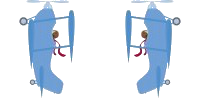
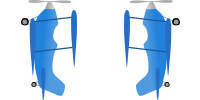
Started a main title screen, and started a better vector drawing of the biplane

Changed region(s): [[0.6, 0.0, 0.93, 1.0], [0.09, 0.0, 0.39, 1.0]]

diff --git a/js/menu.js b/js/menu.js
@@ -1,0 +1,87 @@
+
+
+var menuState = {
+  preload: function() {
+    myGame = this;
+    this.count=0;
+    /* use the whole window up */
+    game.scale.scaleMode = Phaser.ScaleManager.SHOW_ALL;
+    /* if the full screen button is pressed, use this scale mode: */
+    game.scale.fullScreenScaleMode = Phaser.ScaleManager.SHOW_ALL;
+    game.load.image("ribbon", "img/ribbon700w.png");
+    game.load.image("biplane", "img/biplane550w.png");
+    game.load.image("pilot", "img/aviator125w.png");
+    game.load.spritesheet("buttons", "img/buttons103w47h.png", 103,47);
+
+  },
+  create: function() {
+    game.physics.startSystem(Phaser.Physics.ARCADE);
+    game.scale.onSizeChange.add(this.onSizeChange, this);
+    game.stage.backgroundColor = '#94e1f3'; /* sky blue */
+
+    //game.add.tileSprite(0,0, 1280, 720, 'background');
+    game.world.setBounds(-5,-5, game.width+10,game.height+10);
+
+    this.ribbon = game.add.sprite(game.width/2, game.height/2, 'ribbon');
+    this.ribbon.anchor.set(0.5, 0.5); this.ribbon.scale.set(0.85,0.85);
+
+    this.biplane = game.add.sprite(game.width/2, game.height/2, 'biplane');
+    this.biplane.anchor.set(0.5, 0.5); //this.scale.set(0.5,0.5);
+
+    startButton=game.add.button(game.width/2, game.height*0.85, 'buttons', function(){
+      this.closeMenu(GAME);
+    }, this,4,4,4 );
+    startButton.anchor.set(0.5,0.5);
+
+
+  },
+  update: function() {
+    this.count++;
+    /* Fade in from Black at start of Game */
+    if (this.count==1) game.camera.flash(0x000000, 600, true);
+    if (this.count==150) {
+
+    }
+
+    if (this.gameMode==GAME) {
+      if (this.cursors.up.isDown) {
+        this.player.plane.accelerate(ACCELERATE_SPEED);
+      }
+      else if (this.cursors.down.isDown) {
+        this.player.plane.decelerate(ACCELERATE_SPEED);
+      }
+      if (this.cursors.left.isDown) {
+        this.player.plane.rotate(-TURN_SPEED);
+      }
+      else if (this.cursors.right.isDown) {
+        this.player.plane.rotate(+TURN_SPEED);
+      }
+      if (this.spacebar.isDown) {
+        this.fireButtonClick();
+      }
+    }
+  },
+  closeMenu: function( toGameMode ) { /* Fade to black and end this game screen */
+    game.camera.fade(0x000000, 300);  /* fade to black */
+    game.time.events.add(350, function() {
+      game.stage.backgroundColor = '#000000';
+      if (toGameMode == GAME) {
+        game.state.start('play');
+      //}else if (toGameMode == TITLE_SCREEN) {
+      //  game.state.start('play');
+      }
+    }, this);
+  },
+  onSizeChange: function() {
+    if (this.touchControl) {
+      this.touchControl.onSizeChange();
+    }
+
+  },
+  fullScreenButtonPress: function() {
+    if (game.scale.isFullScreen)
+      game.scale.stopFullScreen();
+    else
+      game.scale.startFullScreen(false);
+  },
+};

diff --git a/js/enemy.js b/js/enemy.js
@@ -96,7 +96,7 @@ AI.prototype.logicHandler = function() {
   var plane = this.plane;
   if (plane.flying) {
     /* check if were too low */
-    if (plane.y >550)  this.angleTo(45);
+    if (plane.y >540)  this.angleTo(45);
     else if (this.canISeePlayer()) {
 
       if (this.heightDifference() > 100) {/* if player is much higher, ensure we dont stall */
@@ -112,7 +112,7 @@ AI.prototype.logicHandler = function() {
       this.plane.shoot( /*whoami*/ENEMY );
     }
   }else{ /* on the ground */
-    if (vectorToPower(plane.body.velocity) > 220)  this.angleTo(45); /* take off if fast enough */
+    if (vectorToPower(plane.body.velocity) > 230)  this.angleTo(45); /* take off if fast enough */
   }
   this.logicTimer=game.time.events.add(/*time*/game.rnd.between(230, 270), function() {
     this.logicHandler();

diff --git a/index.html b/index.html
@@ -4,10 +4,11 @@
   <meta charset="UTF-8" />
   <title>Biplanes</title>
   <!-- use local Phaser Lib   -->
-  <!-- <script src="phaser2.8.7.min.js"></script> -->
+  <!-- <script src="phaser2.6.2.min.js"></script>   -->
   <!-- use CDN Phaser Lib -->
   <script src="//cdn.jsdelivr.net/phaser/2.6.2/phaser.min.js"></script>
-
+  
+  <script src="js/menu.js"></script>
   <script src="js/app.js"></script>
   <script src="js/player.js"></script>
   <script src="js/enemy.js"></script>

diff --git a/js/app.js b/js/app.js
@@ -202,9 +202,10 @@ var playState = {
 
 /**************** Add the States and start ************************************/
 game.state.add('play', playState);
+game.state.add('menu', menuState);
 
 game.device.whenReady(function() {
-  game.state.start('play');
+  game.state.start('menu');
 });
 
 /************** VECTOR LIBRARY STUFF *********************************************/

diff --git a/js/bullets.js b/js/bullets.js
@@ -29,7 +29,7 @@ Bullets.prototype.shoot = function( x,y, direction, who ) {
   var bullet = this.getFirstExists(false);
   if (bullet) {
     var vec = angleToVector( direction );
-    bullet.reset(x + (vec.x*60), y + (vec.y*60));
+    bullet.reset(x + (vec.x*40), y + (vec.y*40));
     var power = BULLET_SPEED;
     bullet.whos = who;
     bullet.alpha = 1.0;
